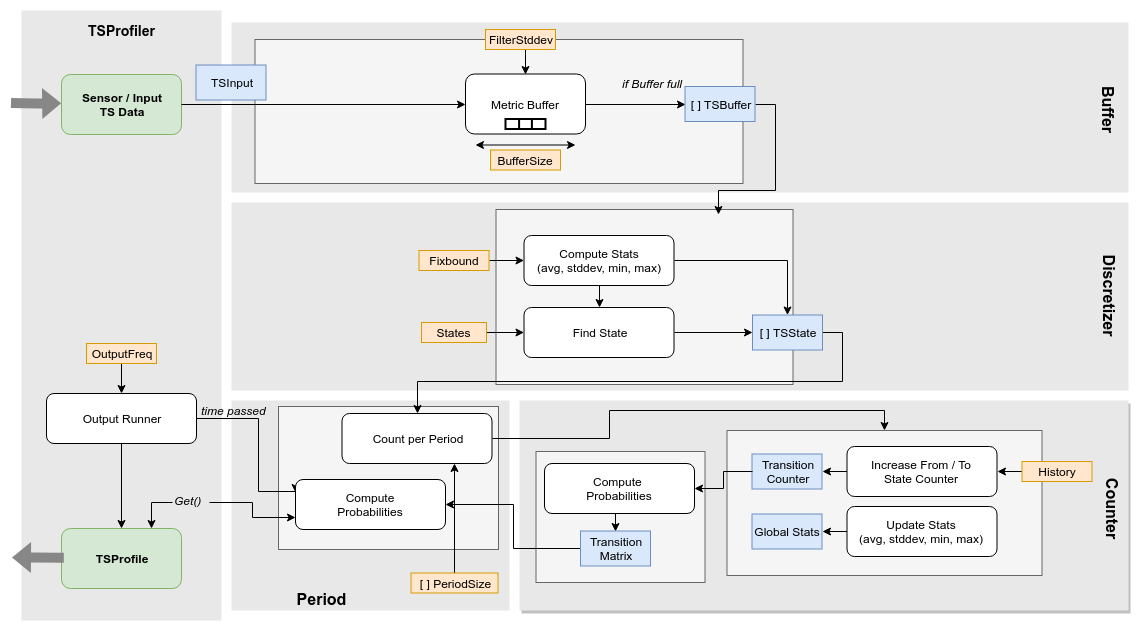
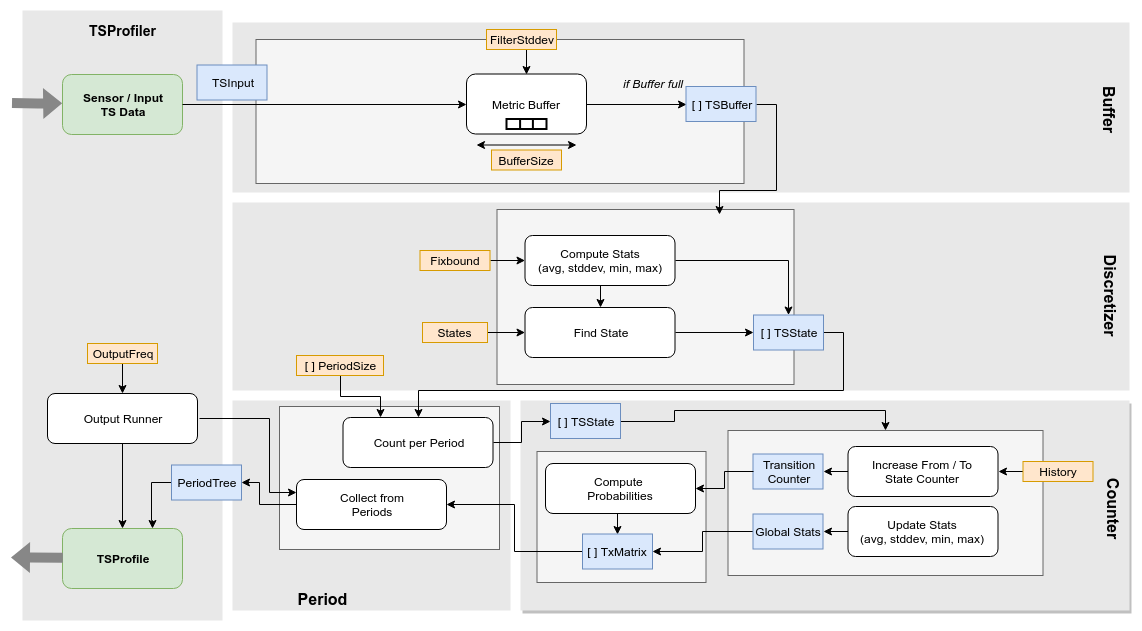
rename TSProfileMetric to TxMatrix

diff --git a/profiler/counter/counter.go b/profiler/counter/counter.go
@@ -121,19 +121,19 @@ func (counter *Counter) count(tsstate models.TSState) {
 }
 
 // GetTx returns the probability matrix for each metric
-func (counter *Counter) GetTx() []models.TSProfileMetric {
+func (counter *Counter) GetTx() []models.TxMatrix {
 	counter.access.Lock()
 	defer counter.access.Unlock()
-	var metrics []models.TSProfileMetric
+	var metrics []models.TxMatrix
 	for metric, stateChangeCounter := range counter.stateChangeCounters {
 		stats := counter.stats[metric]
 		maxCount := float64(stats.Count) / float64(counter.buffersize) // count only discrete states (stats.Count counts TSInput measurements)
-		txmatrix := utils.ComputeProbabilities(stateChangeCounter, maxCount)
+		transitions := utils.ComputeProbabilities(stateChangeCounter, maxCount)
 		// fmt.Printf("counter %+v, probs: %+v\n", metricProfiler.counts.stateChangeCounter, txmatrix)
-		metrics = append(metrics, models.TSProfileMetric{
-			Name:     metric,
-			TXMatrix: txmatrix,
-			Stats:    stats,
+		metrics = append(metrics, models.TxMatrix{
+			Metric:      metric,
+			Transitions: transitions,
+			Stats:       stats,
 		})
 	}
 	return metrics

diff --git a/models/treenode.go b/models/treenode.go
@@ -14,15 +14,15 @@ func NewPeriodTreeNode(size []int) PeriodTreeNode {
 	return PeriodTreeNode{
 		MaxChilds: maxChilds,
 		Children:  children,
-		TxMatrix:  make([]TSProfileMetric, 0),
+		TxMatrix:  make([]TxMatrix, 0),
 	}
 }
 
 // PeriodTreeNode describes a node holding a TxMatrix and (if not leaf node) children
 type PeriodTreeNode struct {
-	MaxChilds int               `json:"maxChilds"`
-	Children  []PeriodTreeNode  `json:"children"`
-	TxMatrix  []TSProfileMetric `json:"txmatrix"`
+	MaxChilds int              `json:"maxChilds"`
+	Children  []PeriodTreeNode `json:"children"`
+	TxMatrix  []TxMatrix       `json:"txmatrix"`
 }
 
 // GetNode returns the TreeNode which is located at `path`

diff --git a/models/txmatrix.go b/models/txmatrix.go
@@ -1,0 +1,8 @@
+package models
+
+// TxMatrix describes for one metric a statistical profile
+type TxMatrix struct {
+	Metric      string            `json:"metric"`
+	Transitions map[string]TXStep `json:"transitions"`
+	Stats       TSStats           `json:"stats"`
+}

diff --git a/README.md b/README.md
@@ -30,7 +30,7 @@ recurrent Markov transition matrices.
 
 ### Command line tool **csv2tsprofile**
 
-The TSProfiler comes with a command line tool to read a CSV file and generate a TSProfile. [Get the most recent stable build from Releases.](https://github.com/cha87de/tsprofiler/releases).
+The TSProfiler comes with a command line tool to read a CSV file and generate a TSProfile. [Get the most recent stable build from Releases.](https://github.com/cha87de/tsprofiler/releases)
 
 Usage:
 
